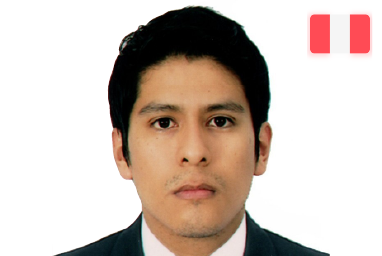
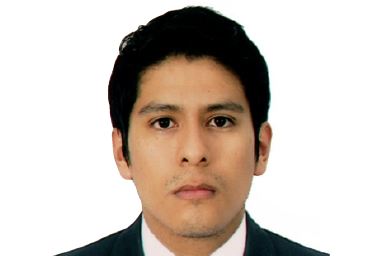
flags speakers

Changed region(s): [[0.8927, 0.0312, 0.9791, 0.2188], [0.8063, 0.0312, 0.8639, 0.2188]]

diff --git a/src/components/ponentes/SpeakerCard.vue b/src/components/ponentes/SpeakerCard.vue
@@ -6,6 +6,12 @@
       >
         <figure class="relative">
           <img :src="'/images/ponentes/' + speaker.img" :alt="speaker.name" />
+          <img
+            v-if="speaker.pais != ''"
+            :src="'/images/ponentes/' + speaker.pais + '.png'"
+            alt="speaker.pais"
+            class="absolute right-5 top-4 z-10 w-11 h-auto"
+          />
           <!-- <div
             class="absolute z-10 w-full h-full opacity-0 hover:opacity-100 duration-300 bg-white/70"
           >
